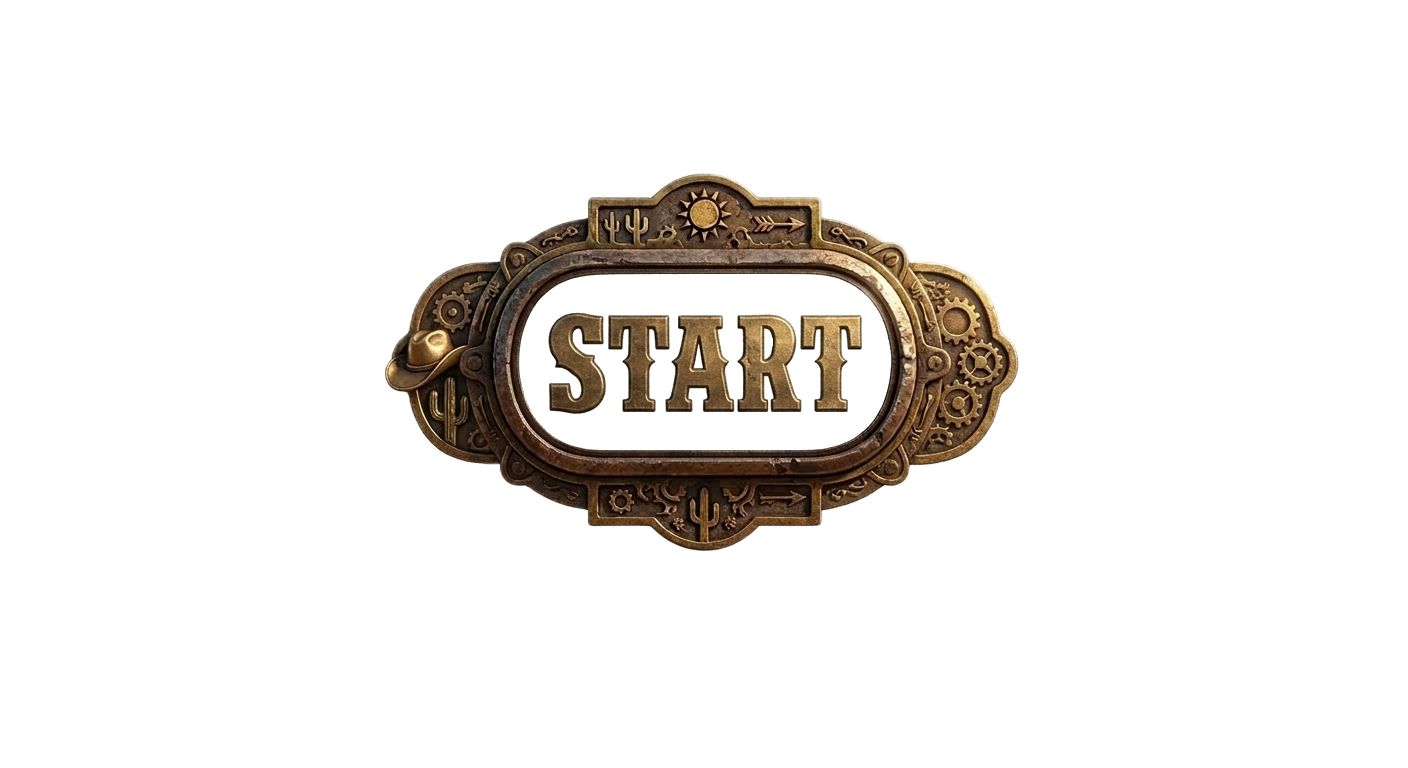
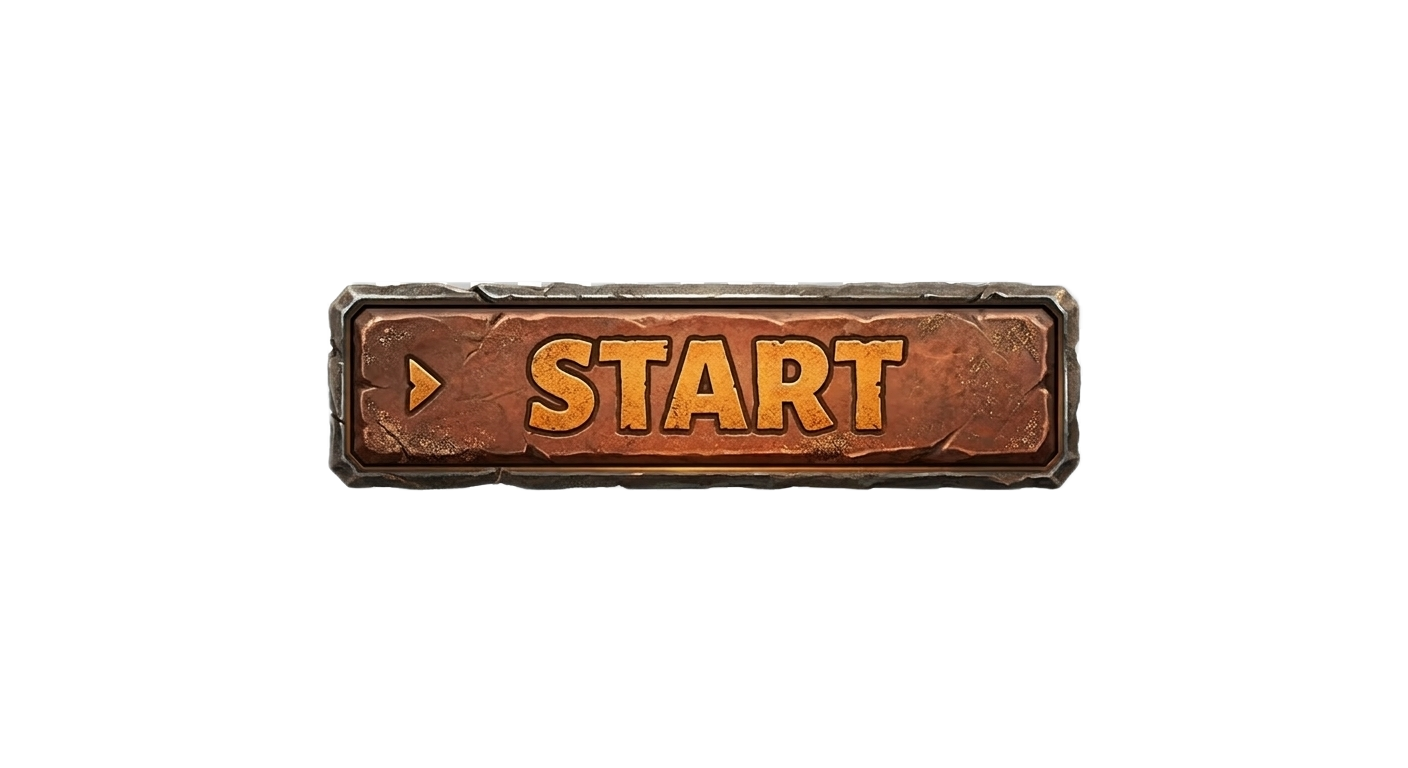
starticono cambiado

Changed region(s): [[0.2188, 0.2188, 0.7812, 0.7188]]

diff --git a/khaenriah/src/main/java/com/ilerna/vista/JPanel2Juego.java b/khaenriah/src/main/java/com/ilerna/vista/JPanel2Juego.java
@@ -26,6 +26,7 @@ public class JPanel2Juego extends JPanel implements ActionListener, KeyListener,
     private int enemigosAEliminar = 10;
     private boolean juegoTerminado = false;
     private boolean victoria = false;
+    private boolean pausado = false;
     private Random random = new Random();
 
     // Controles
@@ -121,6 +122,19 @@ public class JPanel2Juego extends JPanel implements ActionListener, KeyListener,
 
         // Interfaz de Usuario (HUD)
         dibujarHUD(g);
+
+        // Menú de Pausa
+        if (pausado && !juegoTerminado) {
+            g.setColor(new Color(0, 0, 0, 150));
+            g.fillRect(0, 0, getWidth(), getHeight());
+
+            g.setColor(Color.WHITE);
+            g.setFont(new Font("Arial", Font.BOLD, 50));
+            g.drawString("PAUSA", getWidth() / 2 - 80, getHeight() / 2);
+
+            g.setFont(new Font("Arial", Font.BOLD, 20));
+            g.drawString("Pulsa ESC para continuar", getWidth() / 2 - 110, getHeight() / 2 + 50);
+        }
     }
 
     private void dibujarHUD(Graphics g) {
@@ -145,8 +159,10 @@ public class JPanel2Juego extends JPanel implements ActionListener, KeyListener,
 
     @Override
     public void actionPerformed(ActionEvent e) {
-        if (juegoTerminado)
+        if (juegoTerminado || pausado) {
+            repaint(); // Seguimos repintando para ver el menú de pausa
             return;
+        }
 
         actualizarNave();
         actualizarProyectiles();
@@ -323,6 +339,10 @@ public class JPanel2Juego extends JPanel implements ActionListener, KeyListener,
             izquierda = true;
         if (key == KeyEvent.VK_D)
             derecha = true;
+
+        if (key == KeyEvent.VK_ESCAPE) {
+            pausado = !pausado;
+        }
     }
 
     @Override
